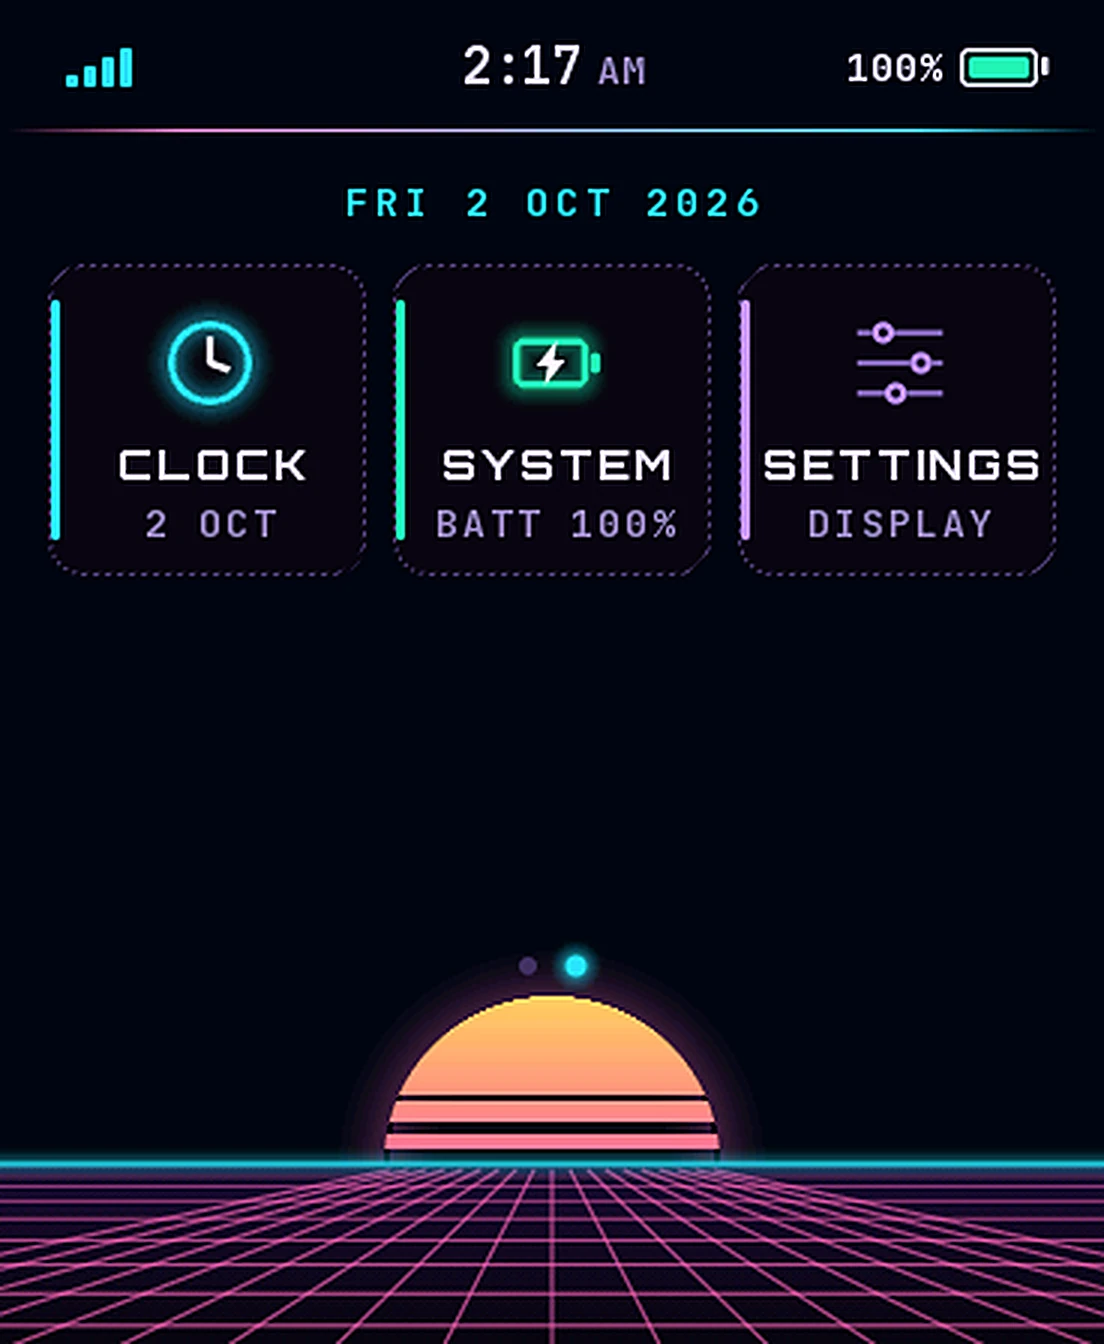
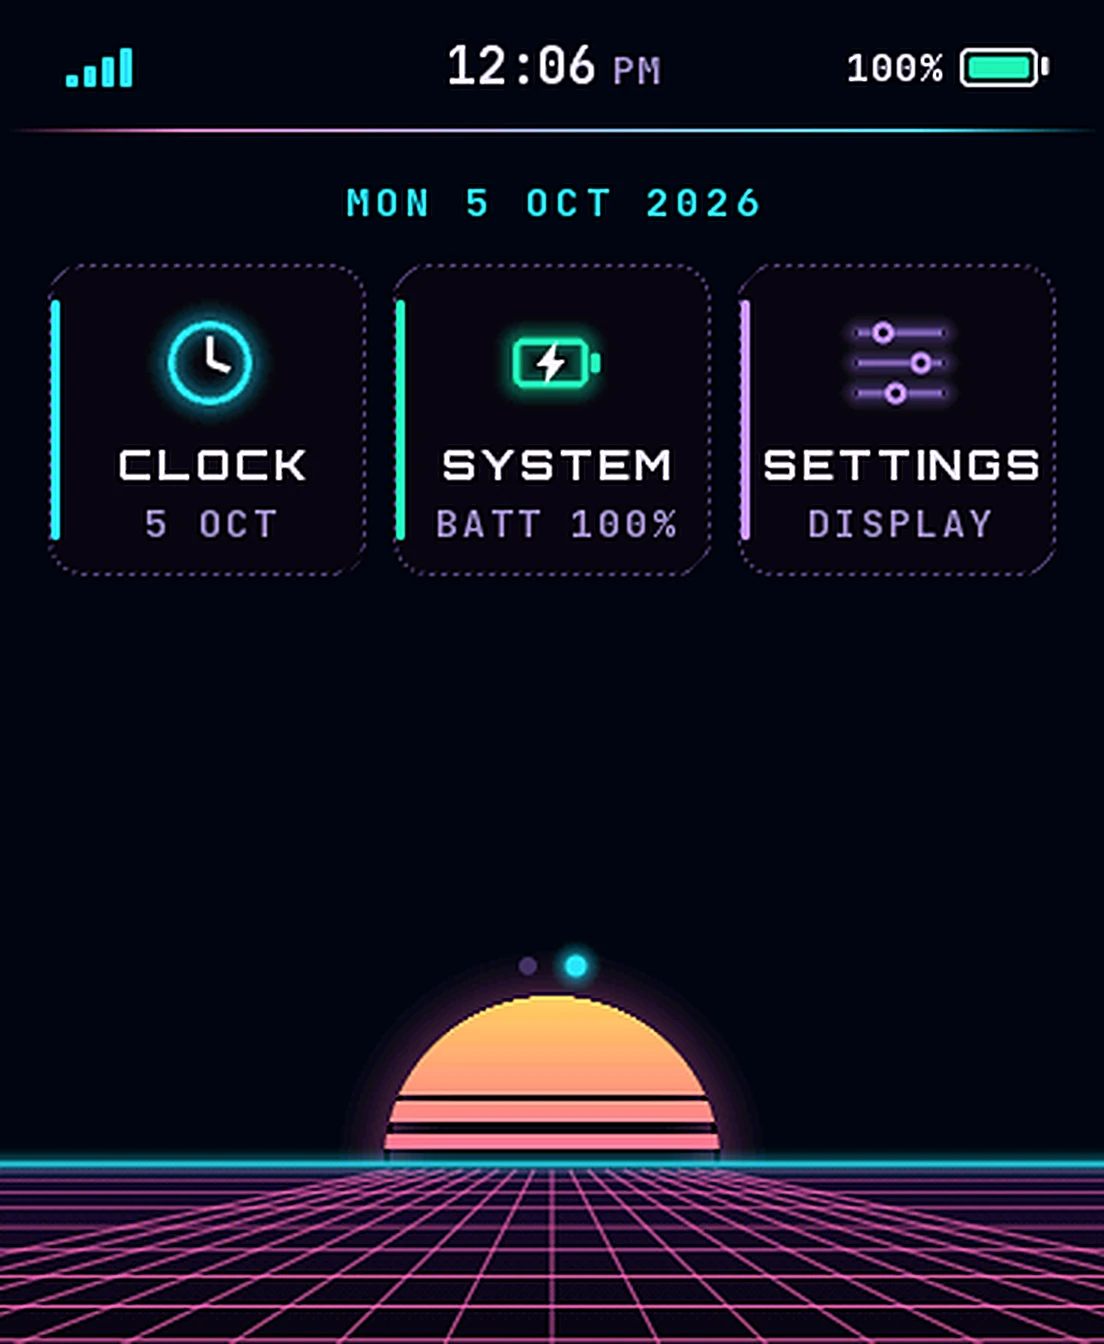
Daytime NeonDeck screenshots
Home screen, Vapor Trails radar and flight detail retaken at a normal
hour with busy air traffic; the detail screen now shows Air Canada
AC817 (Venice to Toronto). Full-size versions upscaled as before and
image URLs versioned to bypass cached copies.

diff --git a/index.html b/index.html
@@ -207,10 +207,10 @@
 
 <div class="featured">
   <div class="shots">
-    <a class="zoom" href="images/neondeck-home-large.webp?v=2" target="_blank" rel="noopener"><img class="shot portrait" src="images/neondeck-home.png?v=2" srcset="images/neondeck-home.png?v=2 368w, images/neondeck-home-large.webp?v=2 1104w" sizes="(max-width: 620px) 45vw, 130px" width="368" height="448" alt="NeonDeck home screen with Clock, System and Settings apps over a synthwave sunset"></a>
+    <a class="zoom" href="images/neondeck-home-large.webp?v=3" target="_blank" rel="noopener"><img class="shot portrait" src="images/neondeck-home.png?v=3" srcset="images/neondeck-home.png?v=3 368w, images/neondeck-home-large.webp?v=3 1104w" sizes="(max-width: 620px) 45vw, 130px" width="368" height="448" alt="NeonDeck home screen with Clock, System and Settings apps over a synthwave sunset"></a>
     <a class="zoom" href="images/neondeck-neon-roads-large.webp?v=2" target="_blank" rel="noopener"><img class="shot portrait" src="images/neondeck-neon-roads.png?v=2" srcset="images/neondeck-neon-roads.png?v=2 368w, images/neondeck-neon-roads-large.webp?v=2 1104w" sizes="(max-width: 620px) 45vw, 130px" width="368" height="448" alt="Neon Roads game: the ship in mid-air above a neon city avenue at sunset"></a>
-    <a class="zoom" href="images/neondeck-vapor-trails-large.webp?v=2" target="_blank" rel="noopener"><img class="shot portrait" src="images/neondeck-vapor-trails.png?v=2" srcset="images/neondeck-vapor-trails.png?v=2 368w, images/neondeck-vapor-trails-large.webp?v=2 1104w" sizes="(max-width: 620px) 45vw, 130px" width="368" height="448" alt="Vapor Trails flight tracker radar showing nearby aircraft and airports"></a>
-    <a class="zoom" href="images/neondeck-vapor-trails-detail-large.webp?v=2" target="_blank" rel="noopener"><img class="shot portrait" src="images/neondeck-vapor-trails-detail.png?v=2" srcset="images/neondeck-vapor-trails-detail.png?v=2 368w, images/neondeck-vapor-trails-detail-large.webp?v=2 1104w" sizes="(max-width: 620px) 45vw, 130px" width="368" height="448" alt="Vapor Trails flight detail: route, altitude, speed and heading for a selected aircraft"></a>
+    <a class="zoom" href="images/neondeck-vapor-trails-large.webp?v=3" target="_blank" rel="noopener"><img class="shot portrait" src="images/neondeck-vapor-trails.png?v=3" srcset="images/neondeck-vapor-trails.png?v=3 368w, images/neondeck-vapor-trails-large.webp?v=3 1104w" sizes="(max-width: 620px) 45vw, 130px" width="368" height="448" alt="Vapor Trails flight tracker radar showing nearby aircraft and airports"></a>
+    <a class="zoom" href="images/neondeck-vapor-trails-detail-large.webp?v=3" target="_blank" rel="noopener"><img class="shot portrait" src="images/neondeck-vapor-trails-detail.png?v=3" srcset="images/neondeck-vapor-trails-detail.png?v=3 368w, images/neondeck-vapor-trails-detail-large.webp?v=3 1104w" sizes="(max-width: 620px) 45vw, 130px" width="368" height="448" alt="Vapor Trails flight detail for Air Canada AC817, Venice to Toronto, over a pixelated photo of the aircraft"></a>
   </div>
   <div>
     <div class="item-head">
